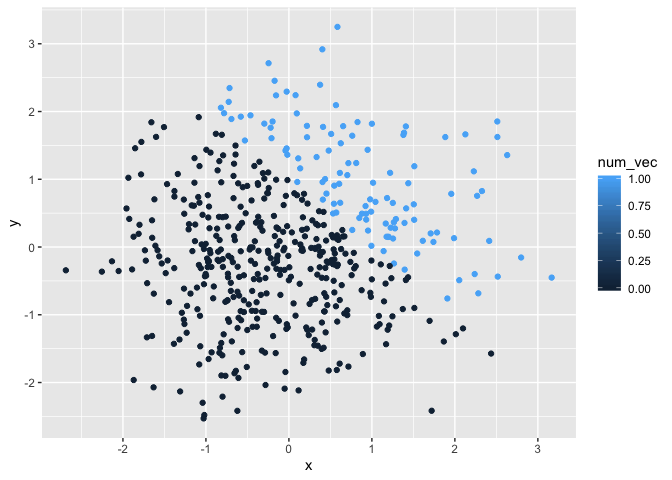
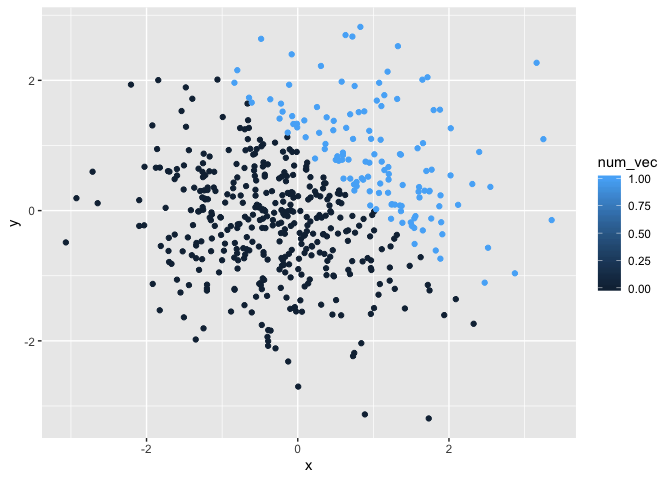
Saved ggplot1

diff --git a/hw1_rmd.md b/hw1_rmd.md
@@ -16,13 +16,13 @@ p1_df = tibble(
 mean(pull(p1_df, norm_samp))
 ```
 
-    ## [1] -0.1736948
+    ## [1] -0.4827447
 
 ``` r
 mean(pull(p1_df, norm_samp_pos))
 ```
 
-    ## [1] 0.5
+    ## [1] 0.125
 
 ``` r
 mean(pull(p1_df, vec_char))
@@ -54,8 +54,8 @@ It only worked when taking the mean of “norm\_samp” and
 as.numeric(pull(p1_df, norm_samp_pos)) * pull(p1_df, norm_samp)
 ```
 
-    ## [1] 0.1228542 0.0000000 0.0000000 0.6611320 0.0000000 0.7919614 0.6549016
-    ## [8] 0.0000000
+    ## [1] 0.0000000 0.0000000 0.0000000 0.0000000 0.0000000 0.0000000 0.0000000
+    ## [8] 0.7076808
 
 ``` r
 ### convert the logical vector to a factor, and multiply the random sample by the result
@@ -69,8 +69,8 @@ as.factor(pull(p1_df, norm_samp_pos)) * pull(p1_df, norm_samp)
 as.numeric(as.factor(pull(p1_df, norm_samp_pos))) * pull(p1_df, norm_samp)
 ```
 
-    ## [1]  0.2457085 -0.9862340 -1.1928174  1.3222641 -0.8480514  1.5839228
-    ## [7]  1.3098032 -0.5933050
+    ## [1] -0.88296677 -1.29096260 -0.03667512 -0.22762818 -0.68163273 -0.48549384
+    ## [7] -0.96427944  1.41536156
 
 # Problem 2
 
@@ -88,10 +88,10 @@ p2_df = tibble(
 
   - the number of row in `p2_df` is 500 ;
   - the number of column in `p2_df` is 5 ;
-  - the mean of x is -0.0496637 ;
-  - the median of x is -0.1400508 ;
-  - the standard deviation of x is 0.9900886 ;
-  - the proportion of cases for which x + y \> 1 is 0.226
+  - the mean of x is -0.0067019 ;
+  - the median of x is -0.0916441 ;
+  - the standard deviation of x is 1.0583745 ;
+  - the proportion of cases for which x + y \> 1 is 0.256
 
 ## Scatterplot
 
@@ -122,4 +122,13 @@ ggplot(p2_df, aes( x = x, y = y, color = fac_vec)) + geom_point()
     False and the blue represents True.
   - The second scatterplot has a numbered blue bar representing from
     0.00 to 1.00, with darker blue dots gathered in the lower left
-    corner and lighter blue gathered in the upper right corner.
+    corner and lighter blue gathered in the upper right
+corner.
+
+<!-- end list -->
+
+``` r
+ggsave("Problem2_1stplot.pdf", plot = ggplot(p2_df, aes( x = x, y = y, color = norm_samp_pos1)) + geom_point())
+```
+
+    ## Saving 7 x 5 in image
